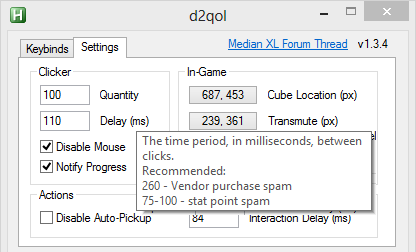
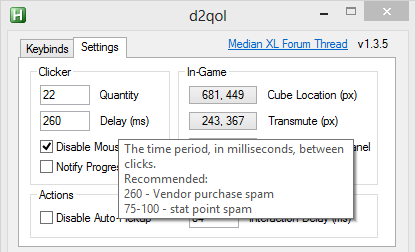
Fixed broken notify option

diff --git a/readme.md b/readme.md
@@ -3,38 +3,46 @@ Median XL's end-game requires highly repetitive crafting mechanics. Working with
 
 This utility does nothing more than clicks on command in locations you have specified. There is no memory peeking, no gameplay logic, nothing outside the capabilities a human can perform.
 
-![Reducing shrines into vessel](media/d2qol_shrines.gif)
+### Features
+* GUI for configuration (no scripting required)
+* Preferences are saved on exit to a config file (d2qol.json)
+* Toggle action hotkeys on/off
+* Actions only operate within Diablo II window
+* Configure action behavior to cover various situations
+* Adjustable actions timing to compensate for latency issues
+
+### Gui
+!["Keybinds UI screenshot"](media/d2qol_keybinds.png)
+
+!["Settings UI screenshot"](media/d2qol_settings.png)
+
+!["Settings UI screenshot"](media/d2qol_settingstooltip.png)
 
 ### Install
 Download [d2qol.exe](build/d2qol.exe).
 
 ### Usage
-Run d2qol.exe **as administrator**. The program will immediately exit if this condition is not true.  
-Make sure to set Cube location and Transmute location for your own setup, as various actions rely on these coordinates.  
-Hotkeys only active when the Diablo II window is focused.  
-Hotkeys are enabled/disabled via checkbox.  
-On exiting the program, settings are saved to *d2qol.json* in the running directory.
-
-### Gui
-The GUI offers configuration for the various actions and settings. Clicking the buttons will prompt with further configuration input.
-
-!["Keybinds UI screenshot"](media/d2qol_keybinds.png)
-
-!["Settings UI screenshot"](media/d2qol_settings.png)
+1. Run executable as Administrator (needs to send commands to the Diablo II window)
+2. Configure hotkeys and settings
 
 Setting | Description
 --- | ---
-Quantity | number of clicks to perform
-Delay | time in milliseconds between clicks
-Disable Mouse | disables mouse movement during the clicking process. Prevents drifting into MOs
-Cube Location | x,y coords of cube within inventory
-Transmute | x,y coords of transmute activation button
-Toggle Inventory | refers to the hotkey used in-game to open the Inventory panel
-Manual Item Pickup | disables Place In Cube from initially clicking
+Quantity | Amount of times for clicker to click the mouse
+Delay | The time period, in milliseconds, between clicks.
+Disable Mouse | Block any mouse movement during the clicking sequence.
+Notify Progress | System tray tooltip showing sequence progress.
+Cube Location | X & Y coordinates of the Horadric Cube.
+Transmute Button | X & Y coordinates of the Horadric Cube's Transmute button.
+Open Inventory Panel | In-game hotkey for opening the character inventory panel.
+Disable Auto-Pickup | Disable auto pick-up during actions that involve moving items, requiring the item to be picked up before usage.
+Interaction Delay | Time period, in milliseconds, to delay during interaction with the game client.
+
+Quickly reducing shrines into vessels
+![Reducing shrines into vessel](media/d2qol_shrines.gif)
 
 ### Known Issues
 **Settings not saving properly**  
-First quit the program, then delete the config file *d2qol.json*.
+First quit the program, then delete the config file *d2qol.json*. Unfortunately settings will have to be reconfigured.
 
 This was designed and tested under 800x600 resolution and DDraw. I've had reports of fullscreen having some issues with certain actions. Everything is based on user defined x,y locations, and the sequence of UI commands is nearly identical to human execution. *What can go wrong?™*
 
